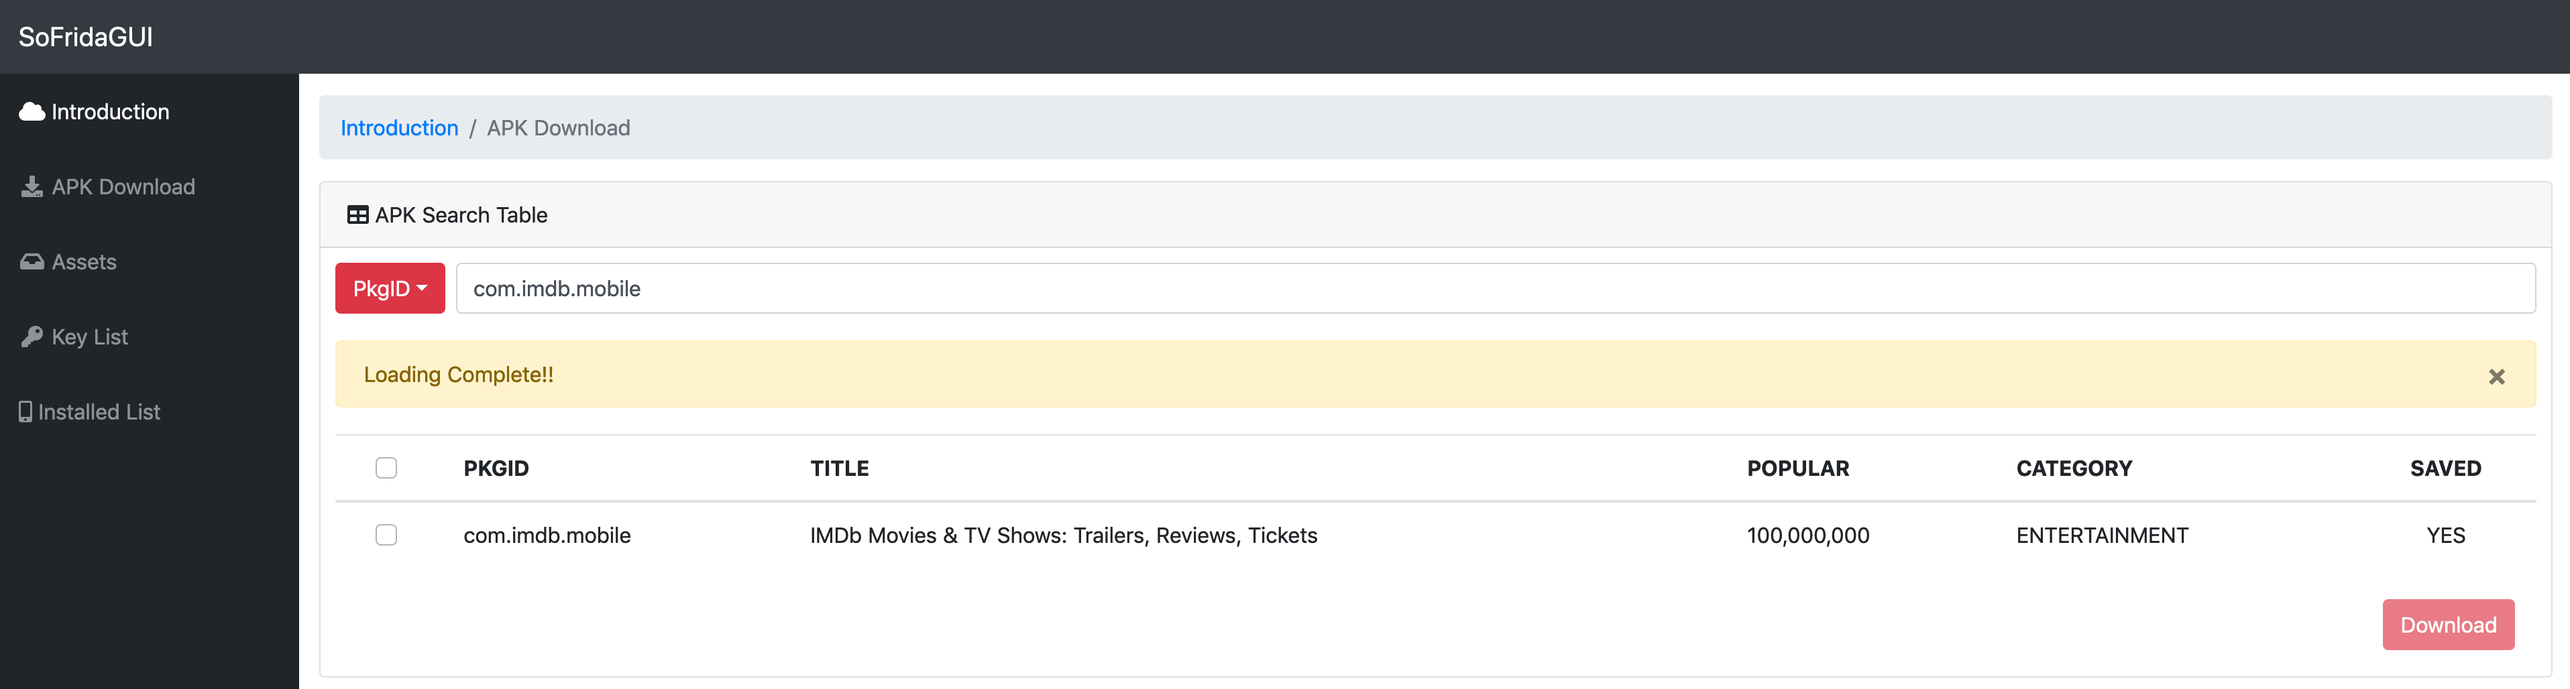
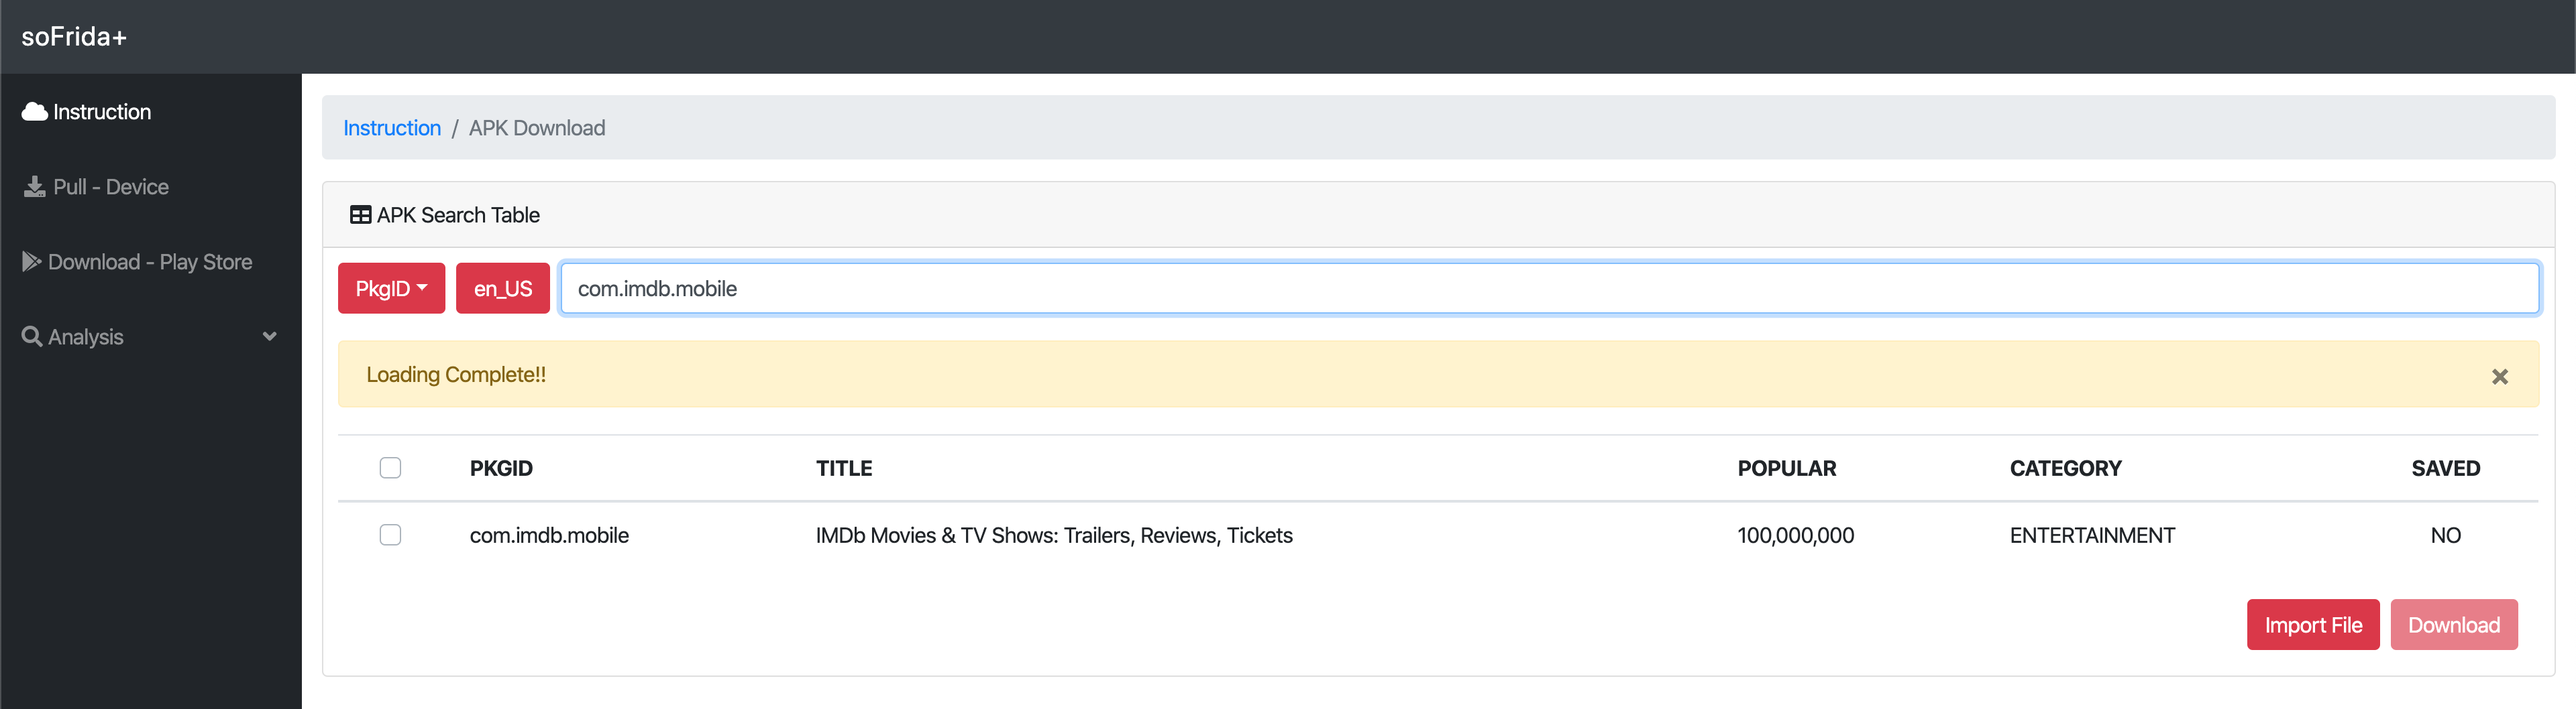
README modified

diff --git a/templates/layout.html b/templates/layout.html
@@ -30,7 +30,7 @@
 
         <nav class="navbar navbar-expand navbar-dark bg-dark static-top">
 
-            <a class="navbar-brand mr-1" href="{{ url_for('index') }}">SoFridaGUI</a>
+            <a class="navbar-brand mr-1" href="{{ url_for('index') }}">soFrida+</a>
             <button class="btn btn-link btn-sm text-white order-1 order-sm-0" id="sidebarToggle" href="#">
             </button>
         </nav>
@@ -74,7 +74,7 @@
                 <footer class="sticky-footer">
                     <div class="container my-auto">
                         <div class="copyright text-center my-auto">
-                            <span>SoFridaGUI 2019</span>
+                            <span>soFrida+ 2019</span>
                         </div>
                     </div>
                 </footer>

diff --git a/README.md b/README.md
@@ -2,8 +2,8 @@
 <p align="center">
   <img src="static/soFrida_Logo.png" width="450">
   <p align="center">Dynamic analysis tool that <b>automates</b> finding cloud-backend and vulnerability from mobile applications.<p>
- <p align="center"> With soFrida, you can analyze and detect Cloud API key misconfigurations automatically via dynamic analysis.<P>
-<p align="center">This tool willl be released on Defcon 27 Demo Labs.<P>
+ <p align="center"> With soFrida+, you can analyze and detect Cloud API key misconfigurations automatically via dynamic analysis.<P>
+<p align="center">This tool was released on Defcon 27 Demo Labs.<P>
 <p align="center">To see our research, please visit: https://sofrida.github.io<P>
 
 
@@ -28,9 +28,9 @@
 
 
 ## Table of Contents
-- [How to install and run InstaPy](#installation)
+- [How to install and run soFrida+](#installation)
   * [Requirements for Analysis](#requirements)
-  * [Installing soFrida](#installation)
+  * [Installing soFrida+](#installation)
   * [Guides and tutorials](#guides) - Available soon.
     * [Video tutorials](#video-tutorials)
 - [Main Features](#main-features)
@@ -39,44 +39,33 @@
 - [LICENSE](#license)
 
 ## Requirements
-* Rooted Android mobile phone for hooking process
+* Rooted Android mobile phone or Jailbroken iPhone for hooking process
 * Web browser without AD-Block plugins
 * [Chrome](https://chromedriver.chromium.org/downloads) or [Firfox](https://github.com/mozilla/geckodriver/releases) driver 
 * Support OS : MacOS, Windows, Ubuntu (Tested)
 * Only works with higher Python3.6
 * Ethical mind 👍
 
-## Installing soFrida
-```sudo pip install -r requirements.sf```
+## Installing soFrida+
+```python3 -m pip install -r requirements.sf```
 
 That's it. You're ready to hack Cloud-backend 😎
 
 ```python3 app.py```
 
 Open your favorite browser and connect to http://127.0.0.1:8888
+You can change port by modifying app.py (End of the code)
 
 ## Video Tutorials
-[![soFrida Video Tutorials](https://img.youtube.com/vi/l8B3vrJg7zk/0.jpg)](https://youtu.be/l8B3vrJg7zk "Click on to watch tutorials")
+[![soFrida+ Video Tutorials](https://img.youtube.com/vi/l8B3vrJg7zk/0.jpg)](https://youtu.be/l8B3vrJg7zk "Click on to watch tutorials")
 
 ## Main Features
-- "APK Download" : Download APK Files from Google Play
+- "Download - Playstore" : Download APK Files from Google Play
 <img src = 'static/apk_download.png'>
 
-- "Installed AppList" : Check installed application on mobile phone (Searching available)
-<img src = 'static/installed_list.png'>
+- "Pull - Device" : Pull APK Files from mobile phone and check cloud SDK
+<img src = 'static/pull_device.png'>
 
-- "Installed AppList" : Pull APK Files from mobile phone and check cloud SDK
-<img src = 'static/pull_from_mobile.png'>
-
-- "Assets" : You can manage downloaded APKs and Select application for analysis. 
-You can identify AWS services and authentication keys
-<img src = 'static/select_apk_for_analysis.png'>
-
-- "Assests" : Result of analysis
-<img src = 'static/analyze.png'>
-
-- "Key Lists" : You can identify all key lists extracted by analysis.
-<img src = 'static/key_lists.png'>
 
 ## Authors
 **Hyunjun Park** - Hyunjun Park is a senior engineer of Samsung SDS in South Korea and a graduate student of SANE Lab in Korea University (Supervisor : Seungjoo Gabriel Kim). His daily job is pentesting a broad range of Samsung products including smart phone, smart TV, wearable devices, etc. He also serves as a main staff of Kimchicon Security Conference in South Korea.
